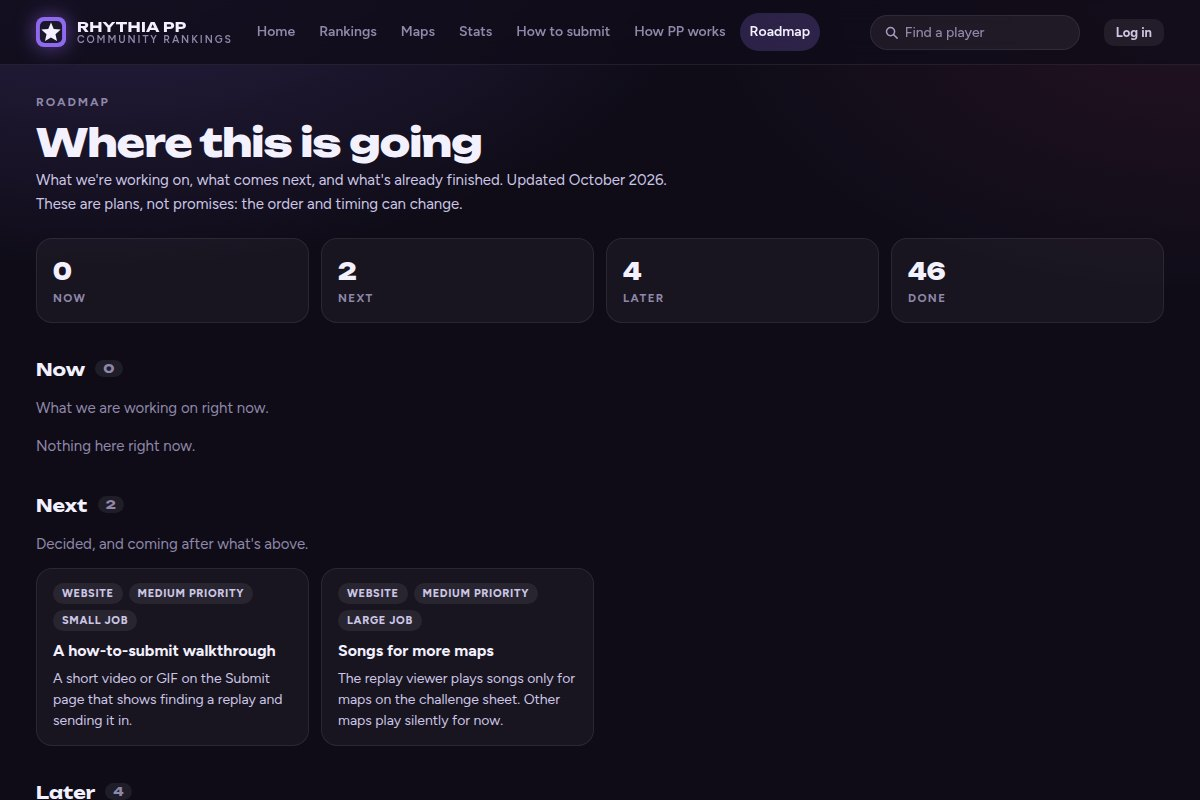
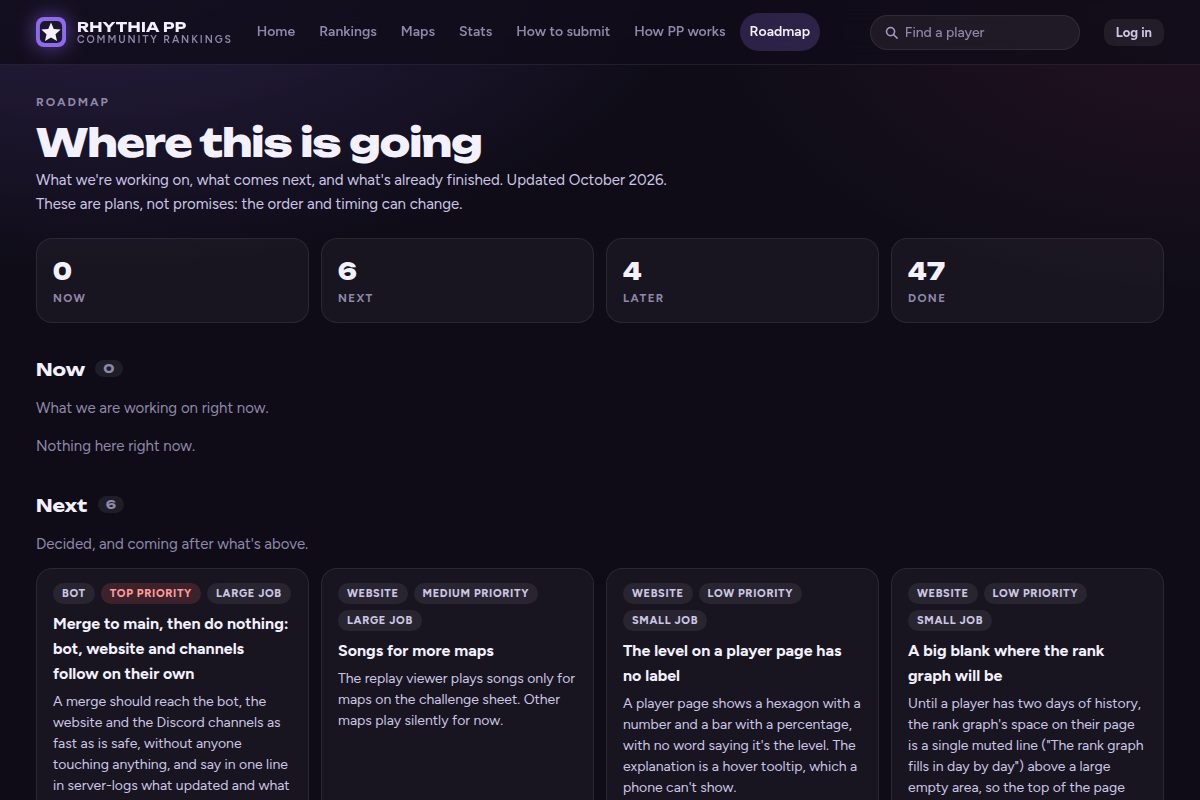
Updates: Patch 1, and the retaken roadmap picture
Claude-Session: https://claude.ai/code/session_013r9FQYGJqc8K5TD8k6MYoM

diff --git a/UPDATES.md b/UPDATES.md
@@ -5,98 +5,36 @@ too, and the [website](https://coleecvr.github.io/rhythia-pp/) always runs the n
 
 ## October 2026
 
-**A clearer way in.** The home page now links straight to the submit steps (and so does every empty podium spot). The Submit page is a proper how-to: which maps count, where to run `/submit`, what to do if the bot doesn't know your map, and what the bot's reply means. The website's login button is quieter, because signing up is your first `/submit` in the Discord, not a login here. On a phone the header is two tidy rows instead of three.
+**Patch 1.** The first release under the new way of shipping: finished work now gathers up and goes out together, so the
+bot restarts once per patch instead of after every change, and a patch is live within about a minute of being released,
+with one line in the server's log channel that follows it from "noticed" to "live". In this patch:
 
-**Easier on a phone.** Rows that scroll sideways (the tabs, a player's sections, wide tables) fade where they continue, and a play's details wrap instead of being cut off. A wrong or old link now says what wasn't found and where to go, a page that fails to load offers a retry, and screen readers hear the new page's title instead of the whole page. Maps show two to a row on a phone with a "Show more" button instead of all 518 at once.
+- A map uploaded under a challenge-sheet map's ID is ranked only once the bot has checked it against the sheet's own
+  file, so nobody can slip a different chart in under a ranked map's name. The bot's replies say what it is waiting for.
+- Every play held for review gets a card with the approve and reject buttons, including plays moved to review by a
+  rules change, with a catch-up at start and every hour.
+- The website: the stats tiles read "1 player" and "1 new player this week" instead of "1 players"; the level on a
+  player page has a label and says how far to the next one; no empty space where the rank graph will be until there are
+  two days of history; every Top plays row has its watch button on a phone too; the Maps filters, the search and the pool
+  filter keep their state while the page refreshes with new data.
+- The replay viewer's staff-only controls (the player intro and Clean view) are hidden from everyone else, as intended.
+- The bot's status command no longer shows "null" on its updates line right after an update.
 
-**In the Discord,** the welcome post and `/help` point to the website's Maps page for the list of ranked maps, and a play on an unranked map says how to nominate it. A play held for review no longer shows the reason in the public channel: a curator simply checks it by hand.
+**A clearer way in.** The home page now links straight to the submit steps (and so does every empty podium spot), the
+Submit page is a proper how-to: which maps count, where to run `/submit`, what to do if the bot doesn't know your map,
+and what the bot's reply means. The website's login button is quieter, because signing up is your first `/submit` in
+the Discord, not a login here. On a phone the header is two tidy rows instead of three.
 
-**Small fixes.** The failed-run card's caption no longer runs into the grade; a profile with no ranked plays yet shows dashes and a hint instead of zeros; retrying one map many times is one row in your Recent list, not ten; and a new `/optout` lets you take yourself off the public lists (and `/optin` brings you back).
+**Easier on a phone.** Rows that scroll sideways (the tabs, a player's sections, wide tables) fade where they continue,
+and a play's details wrap instead of being cut off. A wrong or old link now says what wasn't found and where to go, a
+page that fails to load offers a retry, and screen readers hear the new page's title instead of the whole page.
 
-**Refusals are private.** If the bot turns a play down and the reason names someone else (a copied replay, or a PC that belongs to another player), only you see it now, not the whole channel. The "thinking…" message goes away too.
+**In the Discord,** the welcome post and `/help` point to the website's Maps page for the list of ranked maps, and a
+play on an unranked map says how to nominate it.
 
-**Safer behind the scenes.** Backups and restores check themselves better (and one locked file no longer stops the daily backup), updates that fail their tests are undone and the bot says why, and player names such as "Con" can no longer trip up the website on Windows. Replays that list a modifier twice, or are crafted to crash or slow the bot, are refused, and banned players no longer count in the public totals.
-
-**Failed runs say "Failed".** A run you failed or quit partway through used to be labelled "Rejected", which made it sound like it had been refused. It now says "Failed" on the website and in Discord. "Rejected" is only for plays that break a rule. Failed runs still don't earn PP, and they still count as attempts.
-
-**A dead tab removed.** The website had a Calculator tab that led to "Page not found". The calculator is only for the people running the bot, so the tab is gone from the public site.
-
-**See where your nominated maps stand.** After you suggest a map with `/nominate`, the new `/nominations` command shows each one as waiting for the curators, ranked, or not ranked.
-
-**Weekly roundups, kept.** Every Monday roundup is now saved on the website, so you can look back at the best plays, top players and map of the week from past weeks. The first one appears after next Monday's roundup.
-
-**A real roadmap.** The Roadmap tab now shows what we're working on, what's next and what's finished, with a priority and a rough size on each item. It's kept up to date from one list, so it always matches what we're actually doing.
-
-**Compare two players.** Pick any two players, on the website or with `/compare` in Discord, and see the maps you've both played, who's ahead on each, and the biggest gaps.
-
-**Map of the week.** The Monday roundup now spotlights one ranked map from the challenge sheet, so each gets its turn.
-
-**Filter maps by stars.** The Maps page has new buttons to narrow the list to under 3★, 3–5★, 5–7★ or 7★+.
-
-**A Stats page.** The website has a new Stats tab: how many plays were submitted each week, how many players joined, and how Nightly and Rewrite compare.
-
-**A heads-up when the formula changes.** If the PP formula is ever updated, every play is re-scored and the bot now posts a short note in #announcements saying so, with the biggest rank changes, so it never comes as a surprise.
-
-**A roadmap on the website.** There's a new Roadmap tab showing what's finished, what we're working on now, what's next, and what we've decided not to do.
-
-**Double-tapping /submit is handled.** If `/submit` is sent twice at the same moment with the same replay, the play counts once and the second try now says "You already submitted this replay" instead of showing an error.
-
-**Easier to read and use.** The website's buttons have stronger contrast, and charts, search boxes and tables are
-labelled for screen readers. Player pages no longer show "No country set" to visitors.
-
-**The website tells you when the bot is offline.** The bot runs on one PC, so sometimes it's off. The website
-now notices: if it hasn't heard from the bot in a few hours, every page shows a note saying so, and new plays
-appear as soon as it's back.
-
-**The website, one tap away.** After a play counts, `/submit` now has buttons to watch your replay and open your
-page on the website. `/profile` and `/map` have Website buttons too, every new #1 in #top-plays can be watched with
-one tap, and `/help` and #welcome-rules link to the site. `/help` also
-lists `/nominate`, for suggesting maps for the ranked pool.
-
-**Clearer when a play doesn't count.** If a play isn't counted, the bot now tells you what to do about it: play it
-without pausing, get the current version of the map, use a ranked speed, and so on. If a play is held for a curator
-to check, there's nothing you need to do, and the bot now messages you once it's decided. `/submit` explains where
-to find replays and maps for both Nightly and Rewrite.
-
-**Safer behind the scenes.** Every day the leaderboard is backed up in full, including every replay, and each backup
-is checked. Any re-score can be undone. The bot also has sensible limits on how fast commands can be used, so one
-person can't slow it down for everyone.
-
-**PP re-weighed on real plays.** We went through real replays note by note to see where misses actually happen. They
-land on the hard parts of a map, mostly in short runs, so a few misses usually mean one tough section rather than a
-sloppy play. Misses now cost a little less: on a 1,000-note map an S (98%) keeps about three quarters of a full combo,
-an A (95%) about half and a B (90%) about a third. Every miss still costs something, and a full combo is still clearly
-worth the most. A 5★ full combo is now worth 120pp (it was 100), so totals are back where they're meant to be. Every
-play has been re-scored automatically.
-
-**Misses count properly.** Every miss now costs something on its own, so a long map can't hide them. On a typical
-2,000-note map one miss keeps 98% of the play, five keep 92% and twenty keep 77% (before, twenty misses still kept
-94%). A full combo is always clearly worth the most, and a one-miss play on a hard map is still a great play. Every
-play was re-scored. Hard Rock is now rated at 1.35× the stars.
-
-**Replays show the leaderboard.** While you watch a play, the map's leaderboard sits beside it. The play you're
-watching starts from zero and climbs as it goes, passing the scores it beats, while everyone else shows their final
-result (press L to hide it). The play's speed and mods sit quietly under the grid.
-
-**For Nightly and Rewrite.** Community Ranked is one ranking shared by both Rhythia clients: Nightly (the final Sound
-Space Plus) and Rewrite. Submit a replay from either one (`%APPDATA%\SoundSpacePlus\replays` or
-`%APPDATA%\Rhythia\replays`) and it lands on the same leaderboards. Each play is judged by the rules of the game it
-was played in.
-
-**Speeds the way your game says them.** Plays now show their speed in each game's own terms: Nightly's `<` button
-reads **< 87%** (it really is 1 ÷ 1.15, not 85%), and a Rewrite play at 90% reads **90%**. The numbers behind it were
-already right: the replays only line up with their maps at exactly those speeds. Map pages now rate each map at every
-speed button in both games.
-
-**Flashlight, Nearsighted and Hard Rock count.** Nightly plays with them now earn PP. Flashlight and Nearsighted add a
-bonus. Hard Rock is rated on the map the way it plays: notes spread out, the cursor reaching further and a tighter
-hit window, so its stars go up just like a faster speed. The replay viewer draws Hard Rock's bigger grid, and there's a
-medal for each one.
-
-**Grades that tell the story.** An SS (always a full combo) now shines with a rainbow rim, and an S just one miss from
-it turns silver. Set either with a mod that adds PP in the game it was played in, or faster than 100%, and
-it's **charged**: the grade glows on a dark tile with a spark. You'll see them on score cards, in Discord, on the
-website and in the replay viewer.
+**Small fixes.** Maps show two to a row on a phone with a "Show more" button instead of all 518 at once; the failed-run
+card's caption no longer runs into the grade; a profile with no ranked plays yet shows dashes and a hint instead of
+zeros; and retrying one map many times is one row in your Recent list, not ten.
 
 ## September 2026: launch
 
